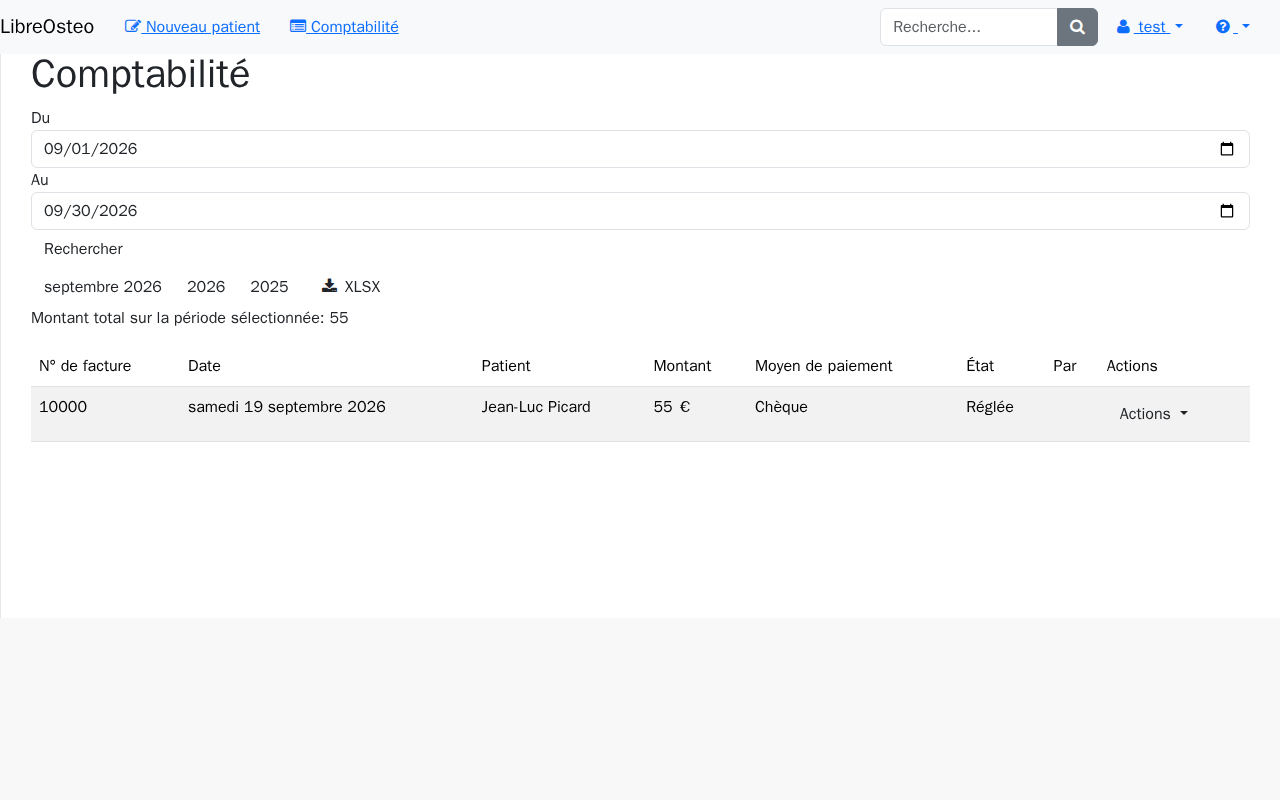
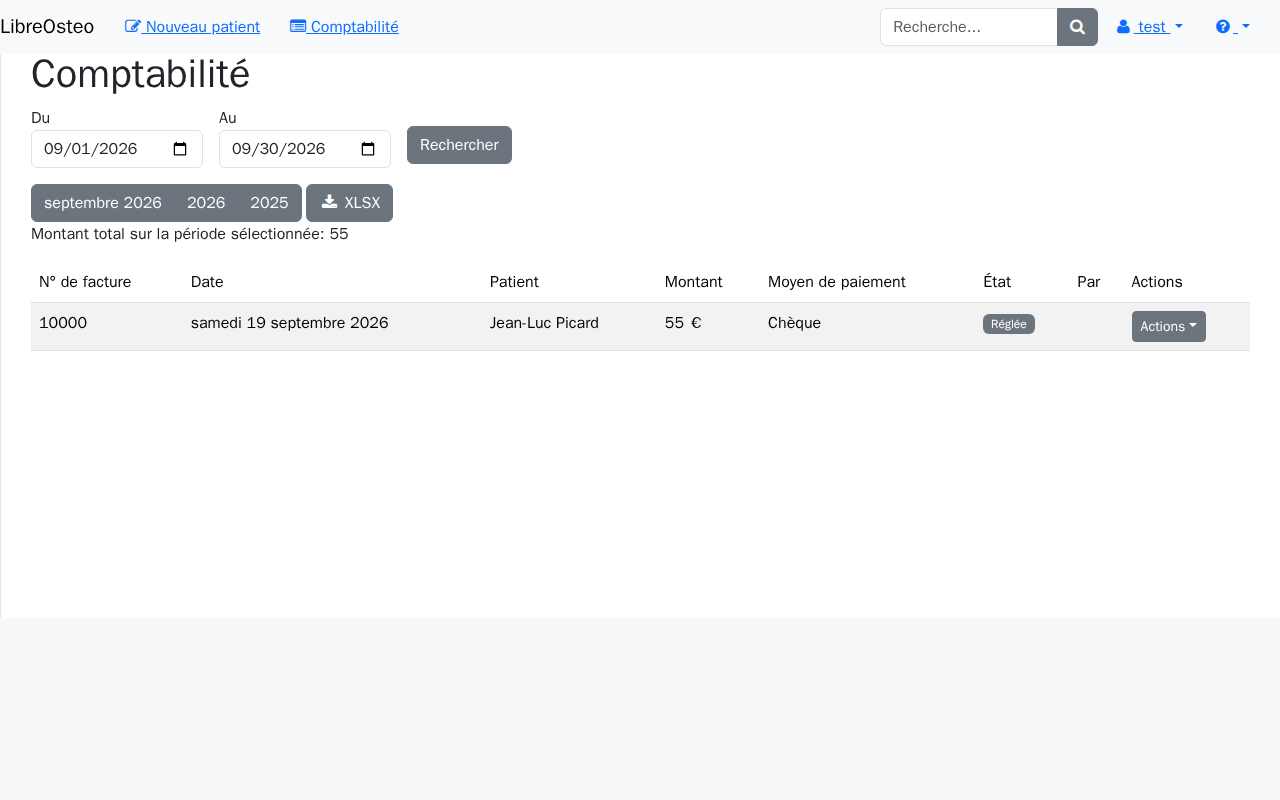
refactor: basculer pages/comptabilite.html sur Bootstrap 5 (D6g T10)
14 occurrences reprises (8 + 5 + 1 + 0 + 0 + 0, remesurees et confirmees
exactes au commit de base) -> 0. form-inline disparait sans equivalent :
style repris par d-flex/flex-wrap/gap-3 (meme motif que T12,
form-horizontal -> row/col-sm-*) ; form-group -> mb-3 ; btn-default ->
btn-secondary ; btn-xs -> btn-sm ; label label-default -> badge
text-bg-secondary ; caret disparait (Bootstrap 5 le dessine en ::after
de .dropdown-toggle, meme motif que partials/menu.html, D6g T4).

Particularite du brief : table-responsive pose sur le tableau des
factures. Mesure avant edition : la reference versee par T1 faisait
603 px de large a 375 px de fenetre (chiffre exact, IHDR du PNG -- la
fiche portait 551 px par erreur, corrige). table-responsive ramene la
capture a exactement 375 px : la page ne deborde plus, le tableau seul
defile dans sa propre boite. Corrige, ne l'aggrave pas.

grep Python (widget.attrs) : aucune classe morte dans
libreosteoweb/api/views/pages/comptabilite.py.

Garde outils/tests/test_rupture_bs5.py : aucun des sept jetons
AJOUTS_DE_T1 sur cet ecran, non touchee.

Orphelinage libreosteo.css : delta vide (82 selecteurs, 28 orphelines
avant et apres, liste identique).

Tests : tests/functional/test_facturation.py (17), libreosteoweb/tests/
test_page_comptabilite.py (16, 18 subtests) -- tous verts, rejoues
apres attente d'un processus pytest concurrent externe (non demarre par
cette tache) pour ecarter toute contamination.
[…]

diff --git a/libreosteoweb/templates/pages/fragments/comptabilite-liste.html b/libreosteoweb/templates/pages/fragments/comptabilite-liste.html
@@ -19,60 +19,69 @@
     <p><b>{% trans 'Total amount on selected period' %}</b>: <span>{{ total }}</span></p>
   </div>
 
-  <table class="table table-striped table-hover">
-    <thead>
-      <tr>
-        <th>{% trans 'Invoice nr' %}</th>
-        <th>{% trans 'Date' %}</th>
-        <th>{% trans 'Patient' %}</th>
-        <th>{% trans 'Amount' %}</th>
-        <th>{% trans 'Paiment mean' %}</th>
-        <th>{% trans 'Status' %}</th>
-        <th>{% trans 'By' %}</th>
-        <th>{% trans 'Actions' %}</th>
-      </tr>
-    </thead>
-    <tbody>
-      {% for facture in factures %}
-      <tr>
-        <td>{{ facture.number|default:"n/a" }}</td>
-        <td>{{ facture.date|date:"l j F Y" }}</td>
-        <td>{{ facture.patient_first_name }} {{ facture.patient_family_name }}</td>
-        {# Le montant est formate par la vue, comme le total : `{{ facture.amount }}` #}
-        {# rendrait « 55,55 » et casserait `test_montant_a_centimes`, qui attend #}
-        {# « 55.55 € » a l'octet. #}
-        <td>{{ facture.montant_affiche }} €</td>
-        <td>{{ facture.moyen_affiche }}</td>
-        <td>
-          <span class="label label-default">{{ facture.statut_libelle }}</span>
-          {% if facture.status == 3 %}<span data-testid="statut-facture-annulee-comptabilite"></span>{% endif %}
-        </td>
-        <td><span>{{ facture.canceled_by.number|default_if_none:"" }}</span></td>
-        <td>
-          <div class="btn-group" x-data="{ ouvert: false }" @click.outside="ouvert = false">
-            <button class="btn btn-default btn-xs dropdown-toggle" type="button"
-                    data-testid="actions-facture" @click="ouvert = !ouvert">Actions <span class="caret"></span></button>
-            {# `x-show` sur un `<ul class="dropdown-menu">` : Bootstrap 3 pose #}
-            {# `.dropdown-menu { display: none }`, et l'etat initial est **faux**, donc #}
-            {# Alpine ecrit `display: none` puis `display: ''` — il n'emprunte jamais la #}
-            {# branche qui *retire* la propriete sur un etat initialement vrai (legs de #}
-            {# D6c). Le `:style` explicite est neanmoins pose, pour ne dependre d'aucun #}
-            {# raccourci. #}
-            <ul class="dropdown-menu" data-testid="menu-actions-facture"
-                :style="ouvert ? 'display: block' : 'display: none'">
-              <li><a href="{% url 'invoice_view' facture.id %}" target="_blank">{% trans 'Print' %}</a></li>
-              {% if facture.status != 3 %}
-              {# La periode et le therapeute affiches voyagent en requete (GET), pour que #}
-              {# la modale puisse les reposer en champs caches (POST) : la liste rafraichie #}
-              {# apres l'annulation reste celle que l'utilisateur regardait. #}
-              <li><a href="#" hx-get="{% url 'comptabilite-annuler' facture.id %}?debut={{ debut|date:'Y-m-d' }}&fin={{ fin|date:'Y-m-d' }}&therapeut={{ therapeut_id|default_if_none:'' }}"
-                     hx-target="#modale">{% trans 'Cancel' %}</a></li>
-              {% endif %}
-            </ul>
-          </div>
-        </td>
-      </tr>
-      {% endfor %}
-    </tbody>
-  </table>
+  {# `table-responsive` (annexe, particularite T10) : a 375 px les huit colonnes debordent #}
+  {# toujours de la largeur utile (etat d'avant, mesure par T1) ; l'enveloppe confine le #}
+  {# defilement horizontal au tableau, la page elle-meme n'en porte plus. Utilitaire #}
+  {# Bootstrap 5 qui survit sans changer aucun geste. #}
+  <div class="table-responsive">
+    <table class="table table-striped table-hover">
+      <thead>
+        <tr>
+          <th>{% trans 'Invoice nr' %}</th>
+          <th>{% trans 'Date' %}</th>
+          <th>{% trans 'Patient' %}</th>
+          <th>{% trans 'Amount' %}</th>
+          <th>{% trans 'Paiment mean' %}</th>
+          <th>{% trans 'Status' %}</th>
+          <th>{% trans 'By' %}</th>
+          <th>{% trans 'Actions' %}</th>
+        </tr>
+      </thead>
+      <tbody>
+        {% for facture in factures %}
+        <tr>
+          <td>{{ facture.number|default:"n/a" }}</td>
+          <td>{{ facture.date|date:"l j F Y" }}</td>
+          <td>{{ facture.patient_first_name }} {{ facture.patient_family_name }}</td>
+          {# Le montant est formate par la vue, comme le total : `{{ facture.amount }}` #}
+          {# rendrait « 55,55 » et casserait `test_montant_a_centimes`, qui attend #}
+          {# « 55.55 € » a l'octet. #}
+          <td>{{ facture.montant_affiche }} €</td>
+          <td>{{ facture.moyen_affiche }}</td>
+          <td>
+            <span class="badge text-bg-secondary">{{ facture.statut_libelle }}</span>
+            {% if facture.status == 3 %}<span data-testid="statut-facture-annulee-comptabilite"></span>{% endif %}
+          </td>
+          <td><span>{{ facture.canceled_by.number|default_if_none:"" }}</span></td>
+          <td>
+            <div class="btn-group" x-data="{ ouvert: false }" @click.outside="ouvert = false">
+              {# `caret` (annexe A) disparait sans equivalent : Bootstrap 5 dessine sa propre #}
+              {# fleche en `::after` de `.dropdown-toggle` (meme motif que `partials/menu.html`, #}
+              {# D6g T4) ; le garder afficherait deux fleches. #}
+              <button class="btn btn-secondary btn-sm dropdown-toggle" type="button"
+                      data-testid="actions-facture" @click="ouvert = !ouvert">Actions</button>
+              {# `x-show` sur un `<ul class="dropdown-menu">` : Bootstrap 3 pose #}
+              {# `.dropdown-menu { display: none }`, et l'etat initial est **faux**, donc #}
+              {# Alpine ecrit `display: none` puis `display: ''` — il n'emprunte jamais la #}
+              {# branche qui *retire* la propriete sur un etat initialement vrai (legs de #}
+              {# D6c). Le `:style` explicite est neanmoins pose, pour ne dependre d'aucun #}
+              {# raccourci. #}
+              <ul class="dropdown-menu" data-testid="menu-actions-facture"
+                  :style="ouvert ? 'display: block' : 'display: none'">
+                <li><a href="{% url 'invoice_view' facture.id %}" target="_blank">{% trans 'Print' %}</a></li>
+                {% if facture.status != 3 %}
+                {# La periode et le therapeute affiches voyagent en requete (GET), pour que #}
+                {# la modale puisse les reposer en champs caches (POST) : la liste rafraichie #}
+                {# apres l'annulation reste celle que l'utilisateur regardait. #}
+                <li><a href="#" hx-get="{% url 'comptabilite-annuler' facture.id %}?debut={{ debut|date:'Y-m-d' }}&fin={{ fin|date:'Y-m-d' }}&therapeut={{ therapeut_id|default_if_none:'' }}"
+                       hx-target="#modale">{% trans 'Cancel' %}</a></li>
+                {% endif %}
+              </ul>
+            </div>
+          </td>
+        </tr>
+        {% endfor %}
+      </tbody>
+    </table>
+  </div>
 </div>

diff --git a/libreosteoweb/templates/pages/comptabilite.html b/libreosteoweb/templates/pages/comptabilite.html
@@ -22,18 +22,22 @@
     {# depot a deja payes (S3 defaut A). C'est un gain, ecrit comme tel (A13). #}
     {# `hx-push-url` tient l'URL affichee a jour : sans elle, un rafraichissement ramenerait a #}
     {# la periode par defaut (C7). #}
-    <form class="form-inline" hx-get="{% url 'comptabilite' %}"
+    {# `form-inline` (annexe A) disparait sans equivalent direct. Le style est repris par #}
+    {# `d-flex flex-wrap align-items-center gap-3` sur le formulaire : les champs restent #}
+    {# cote a cote a 1280 px et passent a la ligne a 375 px, comme sous Bootstrap 3 (meme #}
+    {# motif que T12, `form-horizontal` -> `row`/`col-sm-*`, style repris et non abandonne). #}
+    <form class="d-flex flex-wrap align-items-center gap-3" hx-get="{% url 'comptabilite' %}"
           hx-target="#liste-comptabilite" hx-swap="outerHTML" hx-push-url="true">
-      <div class="form-group">
+      <div class="mb-3">
         <label for="debut">{% trans 'From' %}</label>
         {% include "pages/fragments/comptabilite-champ-date.html" with identifiant="debut" valeur=debut %}
       </div>
-      <div class="form-group">
+      <div class="mb-3">
         <label for="fin">{% trans 'To' %}</label>
         {% include "pages/fragments/comptabilite-champ-date.html" with identifiant="fin" valeur=fin %}
       </div>
       {% if utilisateurs|length > 1 %}
-      <div class="form-group">
+      <div class="mb-3">
         <label for="therapeut">{% trans 'By' %}</label>
         <select class="form-control" id="therapeut" name="therapeut">
           <option value="">{% trans 'All' %}</option>
@@ -43,7 +47,7 @@
         </select>
       </div>
       {% endif %}
-      <button class="btn btn-default" type="submit" data-testid="filtrer-periode">{% trans 'Search' %}</button>
+      <button class="btn btn-secondary" type="submit" data-testid="filtrer-periode">{% trans 'Search' %}</button>
     </form>
 
     {# Les trois plages predefinies, calculees par le serveur : le mois en cours, l'annee en #}
@@ -55,13 +59,13 @@
     {# retombaient sur le therapeute par defaut de la vue (l'utilisateur connecte), #}
     {# perdant toute selection faite via la liste deroulante (defaut de recette). #}
     <div class="btn-group">
-      <a class="btn btn-default" href="?plage=mois" data-testid="plage-mois"
+      <a class="btn btn-secondary" href="?plage=mois" data-testid="plage-mois"
          hx-get="{% url 'comptabilite' %}?plage=mois" hx-target="#liste-comptabilite"
          hx-swap="outerHTML" hx-push-url="true" hx-include="#therapeut">{{ libelle_mois }}</a>
-      <a class="btn btn-default" href="?plage=annee" data-testid="plage-annee"
+      <a class="btn btn-secondary" href="?plage=annee" data-testid="plage-annee"
          hx-get="{% url 'comptabilite' %}?plage=annee" hx-target="#liste-comptabilite"
          hx-swap="outerHTML" hx-push-url="true" hx-include="#therapeut">{{ libelle_annee }}</a>
-      <a class="btn btn-default" href="?plage=annee-precedente" data-testid="plage-annee-precedente"
+      <a class="btn btn-secondary" href="?plage=annee-precedente" data-testid="plage-annee-precedente"
          hx-get="{% url 'comptabilite' %}?plage=annee-precedente" hx-target="#liste-comptabilite"
          hx-swap="outerHTML" hx-push-url="true" hx-include="#therapeut">{{ libelle_annee_precedente }}</a>
     </div>

diff --git a/libreosteoweb/templates/pages/fragments/comptabilite-export.html b/libreosteoweb/templates/pages/fragments/comptabilite-export.html
@@ -5,4 +5,4 @@
 {# elle est donc **refaite a chaque changement de periode** et reposee hors-bande, sans #}
 {# quoi l'export retelechargerait la periode d'avant (defaut de recette R-FAC-02). #}
 {# L'`id` est l'ancrage de ce remplacement : aucune classe de presentation ne l'est. #}
-<a class="btn btn-default" id="export-comptabilite" href="{{ url_export }}"{% if hors_bande %} hx-swap-oob="true"{% endif %}><i class="fa fa-download fa-fw"></i> {% trans 'XLSX' %}</a>
+<a class="btn btn-secondary" id="export-comptabilite" href="{{ url_export }}"{% if hors_bande %} hx-swap-oob="true"{% endif %}><i class="fa fa-download fa-fw"></i> {% trans 'XLSX' %}</a>

diff --git a/docs/recette.md b/docs/recette.md
@@ -4095,22 +4095,45 @@ d'homonyme) est couvert par `tests/functional/test_patient.py`
 375 px. Les deux captures de référence sont `docs/recette/captures/d6g/comptabilite-1280.png`
 et `comptabilite-375.png`.
 
-**⚠ État d'avant, antérieur au lot — débordement horizontal à 375 px.** La capture de
-référence `comptabilite-375.png` fait **551 px de large**, et non 375 : en pleine page,
-cette largeur est celle du contenu. Le tableau des factures et ses huit colonnes débordent
-la fenêtre, et l'écran défile latéralement. **C'est l'état sous Bootstrap 3, mesuré le
-2026-09-19 avant toute modification** : la tâche **T10**, propriétaire de cet écran, hérite
-d'une référence qui déborde et ne doit pas prendre ce débordement pour une régression
-qu'elle aurait introduite.
+**⚠ État d'avant, antérieur au lot — débordement horizontal à 375 px, corrigé par T10.**
+La capture de référence versée par T1 faisait **603 px de large** (mesure exacte, en-tête
+IHDR du PNG — le chiffre de 551 px porté ici avant T10 était imprécis) au lieu de 375 : en
+pleine page, cette largeur est celle du contenu. Le tableau des factures et ses huit
+colonnes débordaient la fenêtre, et l'écran défilait latéralement. **C'était l'état sous
+Bootstrap 3**, et T10, propriétaire de cet écran, en héritait sans que ce débordement soit
+une régression de sa part.
+
+**T10 l'a corrigé, sans y être tenu, par `table-responsive`** (annexe A, particularité
+autorisée par le brief) : le tableau seul défile désormais horizontalement, dans sa propre
+boîte, quand il ne tient pas dans 375 px ; la page ne défile plus. La capture
+`comptabilite-375.png` fait maintenant **375 px de large**, exactement la largeur de la
+fenêtre — mesuré, rejoué deux fois, identique à l'octet près.
 
 **Étapes**
 
 1. Menu latéral → *Comptabilité*, fenêtre à **1 280 px de large**.
-   Attendu : <écrit par T10>
+   Attendu : le titre *Comptabilité* est entièrement visible ; les champs *Du*/*Au* et le
+   bouton *Rechercher* du formulaire de filtre sont côte à côte sur une même ligne ; les
+   trois boutons de plage prédéfinie (mois, année, année précédente) et le bouton d'export
+   *XLSX* sont visibles sous le formulaire ; le tableau des factures affiche ses huit
+   colonnes sans défilement, avec l'étiquette d'état et le bouton *Actions* de chaque ligne
+   atteignables au clic ; aucune barre de défilement horizontale sur la page.
 2. Ramener la fenêtre à **375 px de large**.
-   Attendu : <écrit par T10>
+   Attendu : le titre *Comptabilité* reste entièrement visible ; les champs du formulaire de
+   filtre passent à la ligne (le champ *Du* seul, puis le champ *Au* et le bouton
+   *Rechercher* sur la ligne suivante), chaque champ restant lisible et son libellé associé ;
+   les trois boutons de plage prédéfinie restent sur une seule ligne, suivis du bouton
+   *XLSX* sur la ligne suivante ; le tableau des factures est contenu dans sa propre boîte
+   à défilement horizontal — ses premières colonnes (numéro, date, patient, montant) sont
+   visibles sans défiler ; **aucune barre de défilement horizontale sur la page elle-même**
+   (corrigé, voir l'encadré ci-dessus).
 
-**Ne couvre pas** : <écrit par T10>
+**Ne couvre pas** : atteindre au clic l'étiquette d'état et le bouton *Actions* du tableau à
+375 px demande de faire défiler le tableau lui-même horizontalement, dans sa propre boîte —
+ce geste n'est pas visible sur la capture de référence, qui montre l'état initial non
+défilé ; c'est le comportement attendu de `table-responsive`, pas un défaut. Le contenu
+soumis (filtre de période, annulation d'une facture avec refus affiché, export XLSX) est
+couvert par `tests/functional/test_facturation.py`.
 
 ### R-VIS-10 — Socle visuel : import/export
 
